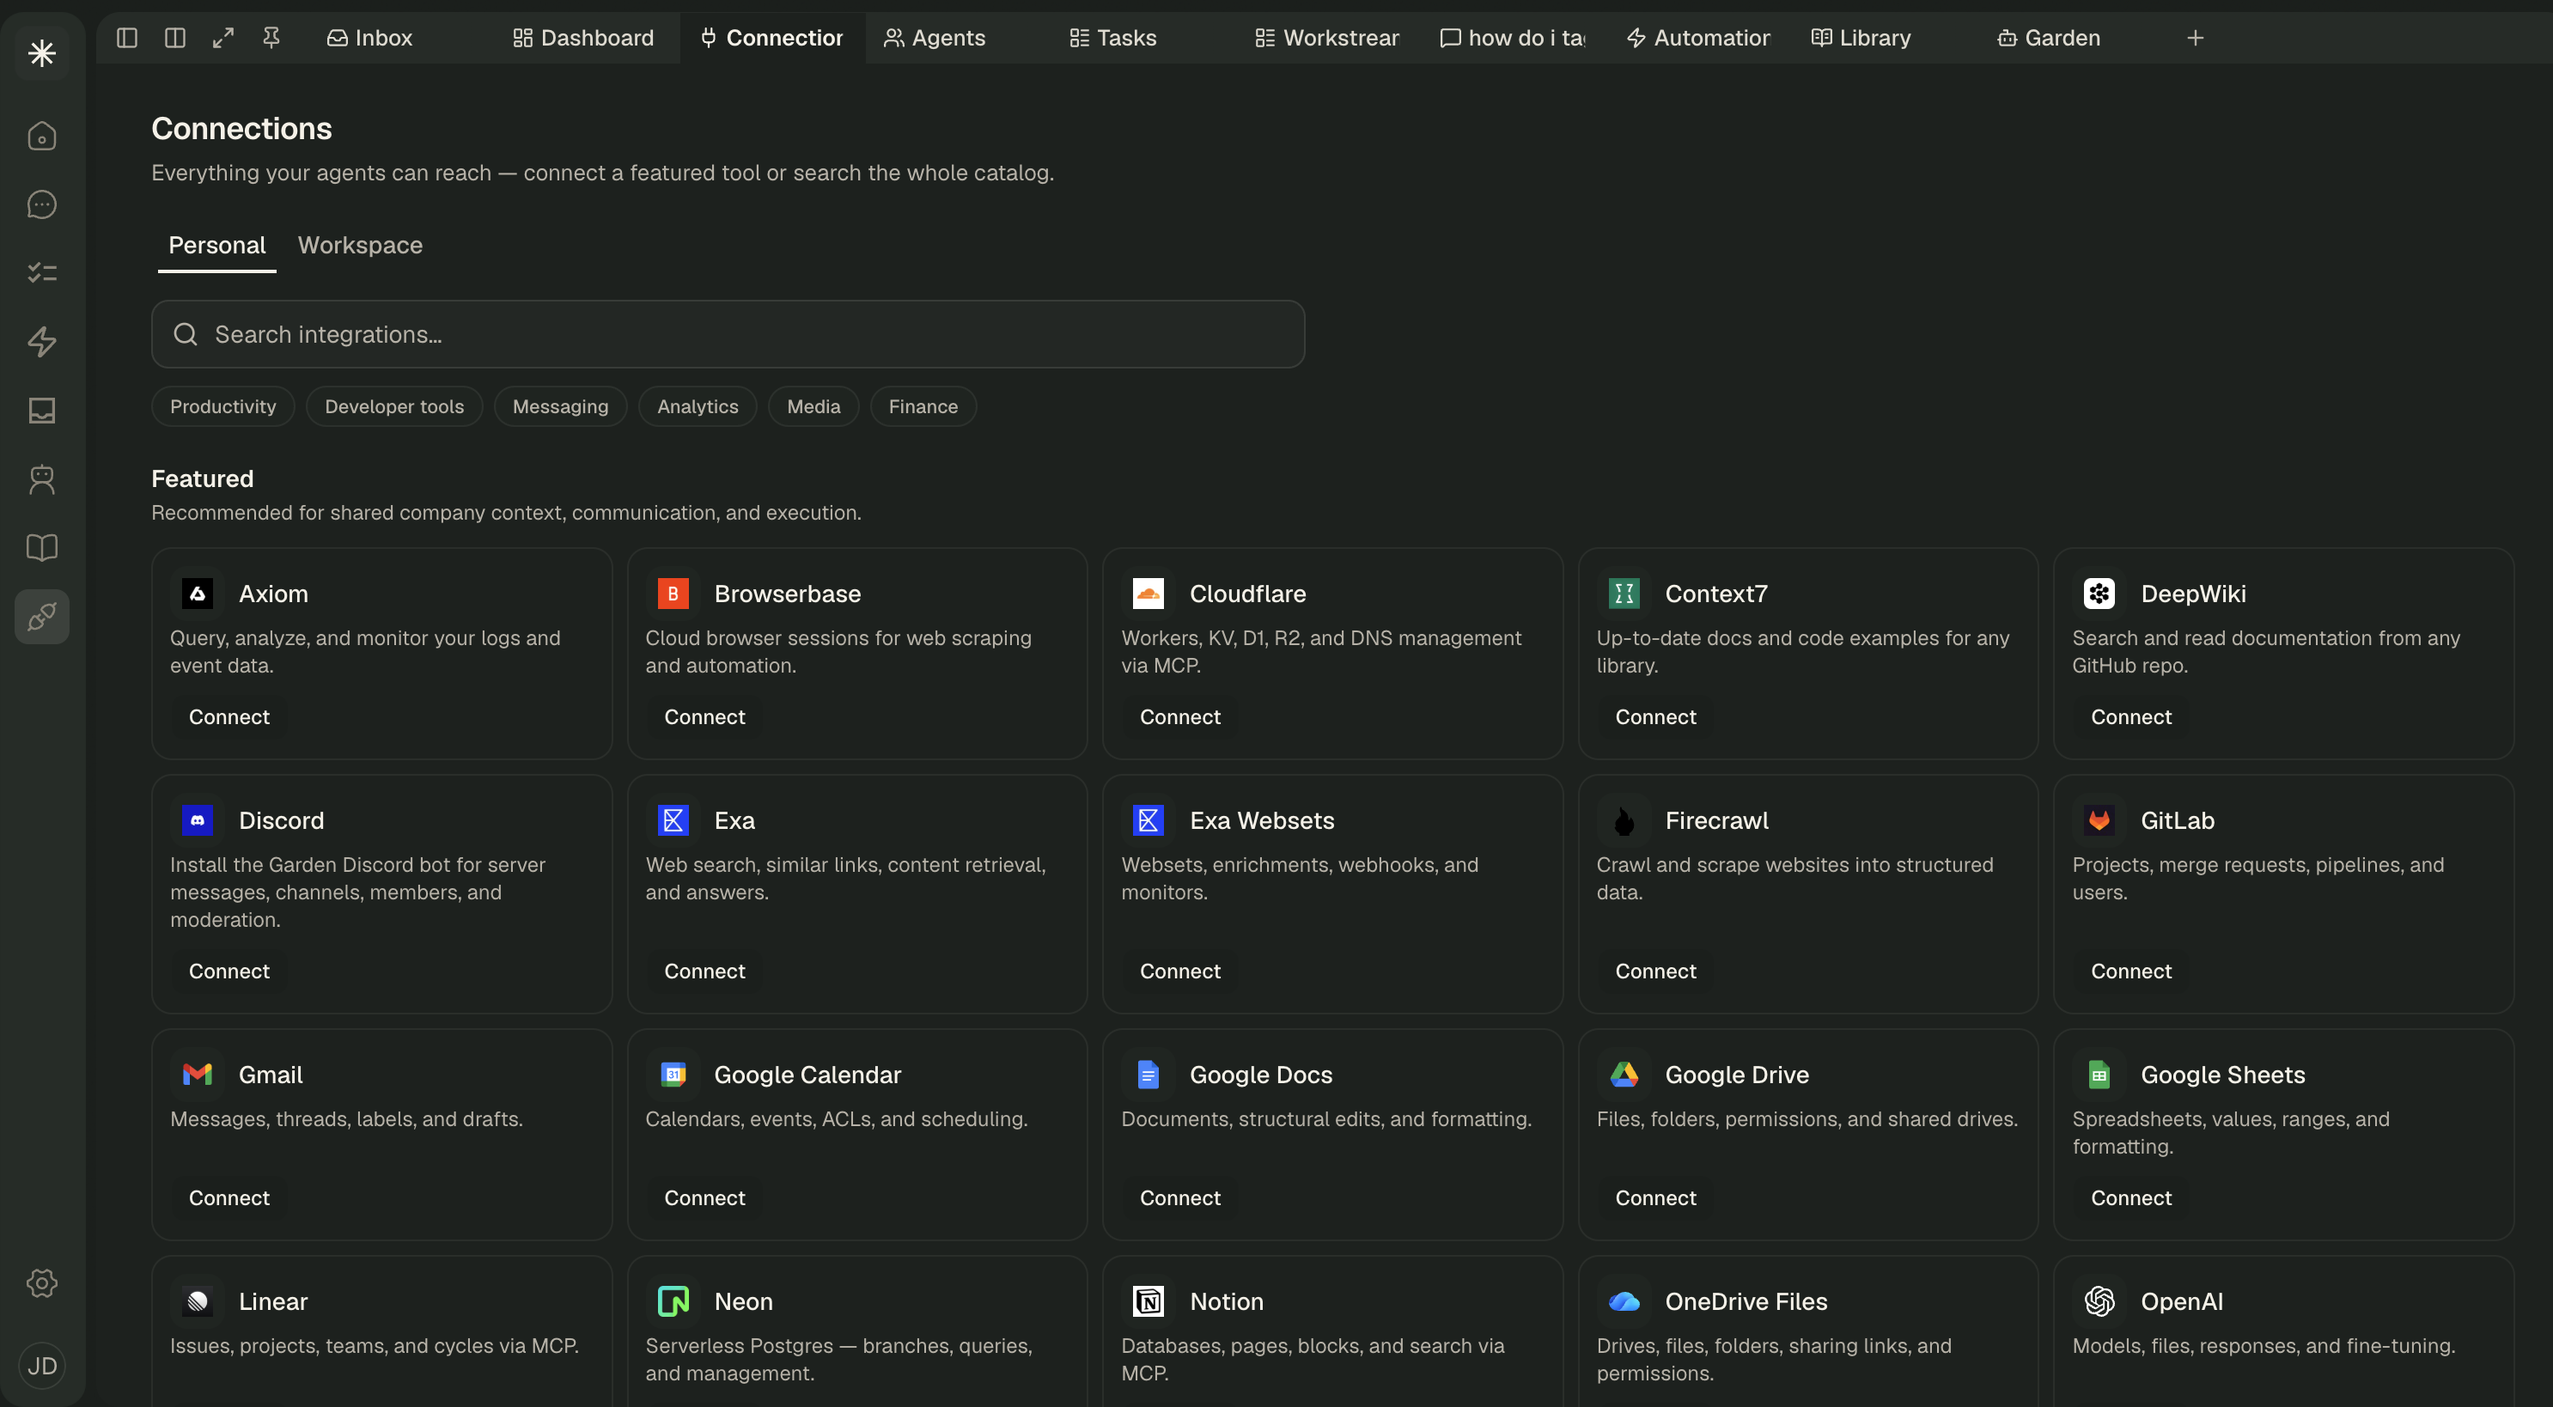
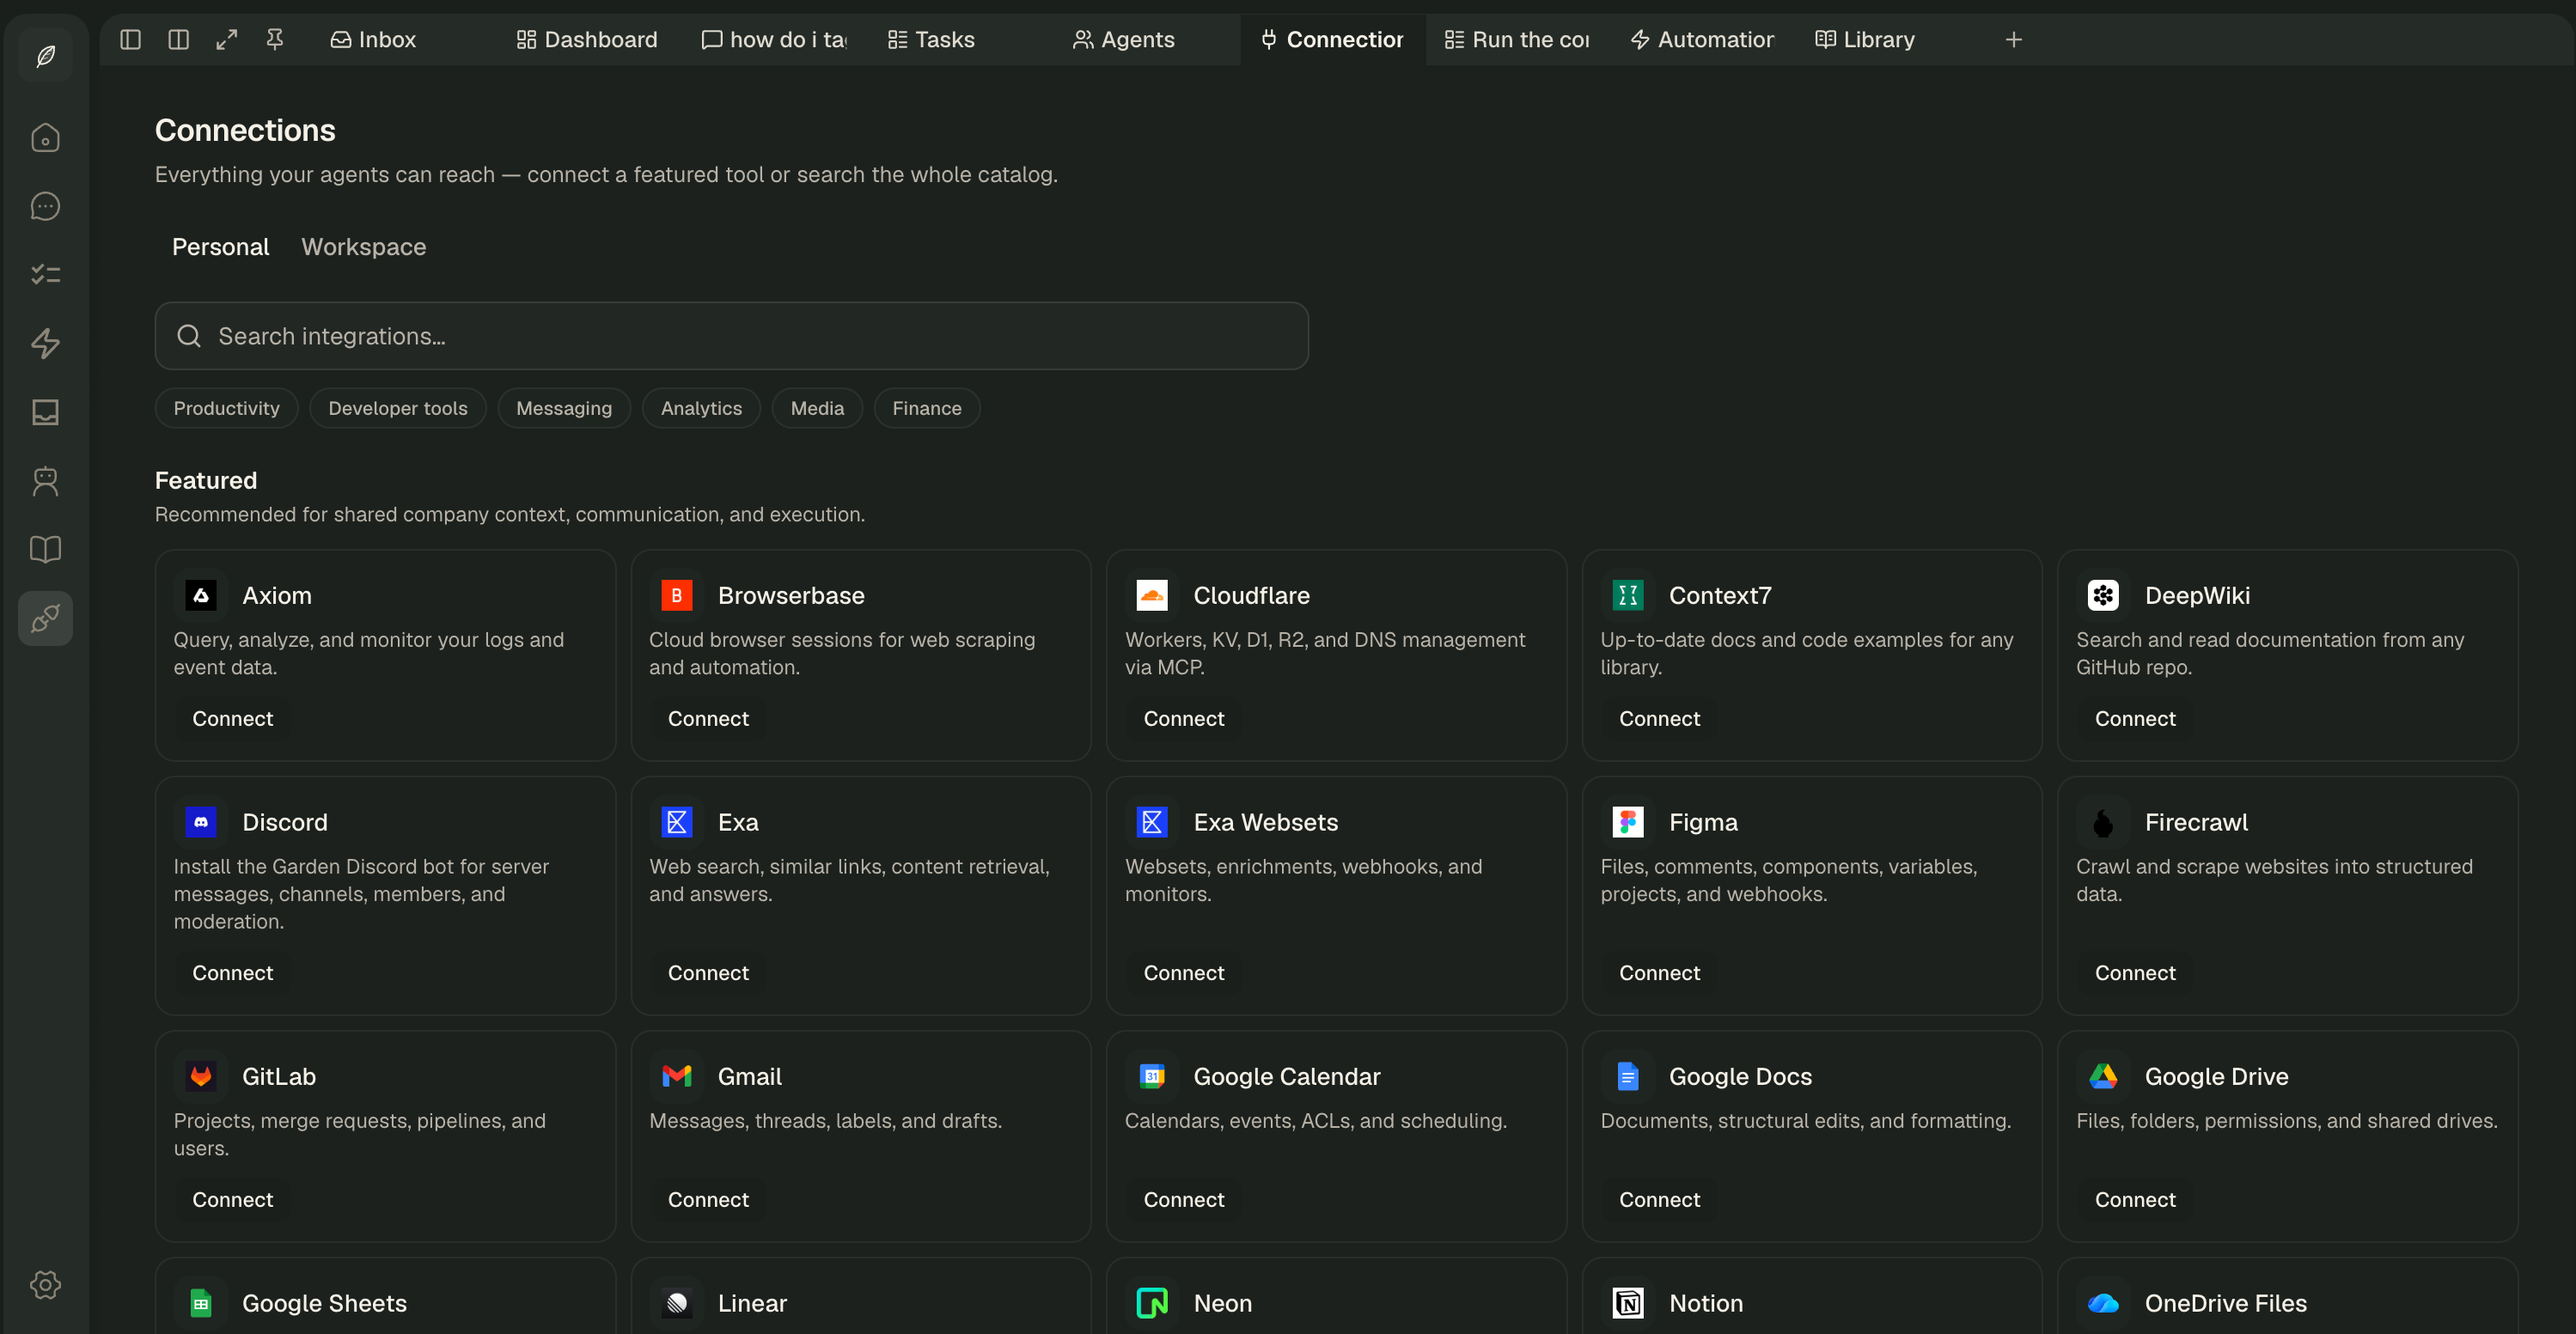
docs(assets): refresh README screenshots with the leaf brand mark
New captures of the issue board, Agents screen, and Connections catalog
supplied by the maintainer on 16 Aug 2026, showing the current product
with the Garden leaf mark in the rail. Dev-only 'Update available' toast
cropped from the bottom edge; lossless WebP per the existing asset
convention; provenance README updated with new hashes and dimensions.

diff --git a/docs/assets/readme/README.md b/docs/assets/readme/README.md
@@ -1,29 +1,31 @@
 # README product images
 
 The images in this directory are lossless WebP conversions of product
-screenshots supplied by a Garden maintainer on 9 and 10 August 2026.
+screenshots supplied by a Garden maintainer on 16 August 2026, showing the
+current product with the Garden leaf brand mark. The dev-only "Update
+available" toast was cropped from the bottom edge of each capture before
+conversion; no other edits were made.
 
 ## `issues-board.webp`
 
[1 lines of base64/hex data omitted]
-- Original dimensions: 2990 × 1636
[1 lines of base64/hex data omitted]
+- Dimensions: 3012 × 1555
 - Public-content check: the screenshot contains visible Flow Research issue
-  IDs, titles, priorities, project navigation, and contributor names. The
-  maintainer approved publishing this version in a follow-up on 10 August
-  2026.
+  IDs, titles, priorities, tab navigation, and contributor names/initials.
+  The maintainer supplied it for publication on 16 August 2026.
 
 ## `agents.webp`
 
[1 lines of base64/hex data omitted]
-- Original dimensions: 3004 × 1646
[1 lines of base64/hex data omitted]
+- Dimensions: 3006 × 1547
 - Public-content check: no credentials, email addresses, URLs, or message
-  bodies. The image retains the Flow Research workspace name, product
-  navigation labels, and the maintainer's avatar initials.
+  bodies. The image retains the workspace agent card, product navigation
+  labels, and a chat tab title.
 
 ## `connections.webp`
 
[1 lines of base64/hex data omitted]
-- Original dimensions: 2972 × 1638
[1 lines of base64/hex data omitted]
+- Dimensions: 2998 × 1553
 - Public-content check: no credentials, email addresses, URLs, or message
-  bodies. The image retains product navigation labels and the maintainer's
-  avatar initials.
+  bodies. The image retains the connector catalog with provider names and
+  product navigation labels.
